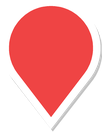
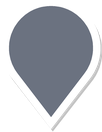
Map pins: empty green pin when available without a count, grey '0' pin for Full listings only with Show Full
Full = every area full (monitored 0 free or unmonitored switched Full). Pins
and the results sheet share one visible-results filter on top of the
server's p_hide_full. Native pin-full PNGs regenerated grey (rj t140u).

diff --git a/src/screens/SearchScreen.tsx b/src/screens/SearchScreen.tsx
@@ -59,7 +59,7 @@ import { useAuthStore } from '../stores/authStore';
 import { supabase } from '../lib/supabase';
 import { loadMyMemberships } from '../lib/operatorAccess';
 import { useBottomInset } from '../hooks/useBottomInset';
-import { listingAvailability, listingPinLabel } from '../lib/areas';
+import { listingAvailability, listingPinLabel, visibleResults } from '../lib/areas';
 
 // Results sheet, three modes (snap points, drag the handle between them):
 // - Minimized: fits its top part (title, summary, one row of filters, distance slider);
@@ -201,10 +201,16 @@ export function SearchScreen() {
     setSearchNonce((n) => n + 1);
   };
 
+  // rj t140u: Full listings are only shown (grey pin / row) while 'Show Full' is on.
+  const shown = useMemo(
+    () => visibleResults(results, filters.showFull),
+    [results, filters.showFull]
+  );
+
   // Convert search results to map pins
   const pins: LocationPin[] = useMemo(
     () =>
-      results.map((result) => ({
+      shown.map((result) => ({
         id: result.id,
         coordinate: {
           latitude: result.latitude,
@@ -212,8 +218,8 @@ export function SearchScreen() {
         },
         availableCount: result.available_count || 0,
         availableSlots: availableSlots(result),
-        // 0067 (areas): the monitored free total, 'Available' with no monitored count,
-        // 'Full' only when every area is full.
+        // The monitored free total; empty green pin when available with no number;
+        // grey '0' when Full (rj t140u).
         pinLabel: listingPinLabel(result.available_count, result.open_status),
         isStale:
           result.stale_after_min && result.availability_updated_at
@@ -223,7 +229,7 @@ export function SearchScreen() {
         isFull: listingAvailability(result.available_count, result.open_status).full,
         title: result.name,
       })),
-    [results]
+    [shown]
   );
 
   const handlePinPress = (locationId: string) => {
@@ -345,11 +351,11 @@ export function SearchScreen() {
   const listData = useMemo(
     () =>
       sortBy === 'eta'
-        ? [...results].sort(
+        ? [...shown].sort(
             (a, b) => (etas[a.id]?.duration_s || 99999) - (etas[b.id]?.duration_s || 99999)
           )
-        : results,
-    [sortBy, results, etas]
+        : shown,
+    [sortBy, shown, etas]
   );
   const renderListItem = useCallback(
     ({ item }: { item: (typeof results)[0] }) => (
@@ -539,7 +545,7 @@ export function SearchScreen() {
                     testID="search-summary"
                     accessibilityLiveRegion="polite"
                   >
-                    {loading ? 'Searching…' : error ? 'Search failed' : searchSummary(results)}
+                    {loading ? 'Searching…' : error ? 'Search failed' : searchSummary(shown)}
                   </Text>
                 </View>
               </View>

diff --git a/src/lib/areas.test.ts b/src/lib/areas.test.ts
@@ -7,6 +7,7 @@ import {
   defaultAreaId,
   listingAvailability,
   listingPinLabel,
+  visibleResults,
   sortAreas,
   vehicleTypesLabel,
 } from './areas.ts';
@@ -84,10 +85,26 @@ test('area error messages', () => {
   assert.equal(areaErrorMessage('weird'), 'weird');
 });
 
-test('map pin labels', () => {
+test('map pin labels (rj t140u)', () => {
   assert.equal(listingPinLabel(12, true), '12');
-  assert.equal(listingPinLabel(null, true), 'Open');
-  assert.equal(listingPinLabel(0, true), 'Open');
+  // available, no monitored count: empty green pin
+  assert.equal(listingPinLabel(null, true), '');
+  assert.equal(listingPinLabel(0, true), '');
+  // full (monitored or unmonitored): grey pin with 0
   assert.equal(listingPinLabel(0, false), '0');
-  assert.equal(listingPinLabel(null, false), 'Full');
+  assert.equal(listingPinLabel(null, false), '0');
+});
+
+test('Full listings only with Show Full', () => {
+  const rows = [
+    { id: 'a', available_count: 3, open_status: true },
+    { id: 'b', available_count: 0, open_status: false },
+    { id: 'c', available_count: null, open_status: false },
+    { id: 'd', available_count: null, open_status: true },
+  ];
+  assert.deepEqual(
+    visibleResults(rows, false).map((r) => r.id),
+    ['a', 'd']
+  );
+  assert.equal(visibleResults(rows, true).length, 4);
 });

diff --git a/src/lib/areas.ts b/src/lib/areas.ts
@@ -133,12 +133,24 @@ export function areaErrorMessage(
   }
 }
 
-/** Short map-pin text for the same rule: the number, 'Open' (no monitored count) or 'Full'. */
+/** Map-pin text (rj t140u): the free number; '0' on a Full listing's grey pin (also
+ *  when no area is monitored); empty (a plain green pin) when available with no number. */
 export function listingPinLabel(
   count: number | null | undefined,
   open: boolean | null | undefined
 ): string {
   const a = listingAvailability(count, open);
-  if (a.full) return a.count == null ? 'Full' : '0';
-  return a.count != null && a.count > 0 ? String(a.count) : 'Open';
+  if (a.full) return '0';
+  return a.count != null && a.count > 0 ? String(a.count) : '';
+}
+
+/** Search results to show on the map and in the results sheet (rj t140u): Full listings
+ *  only while 'Show Full' is on. The server already leaves them out (p_hide_full); this
+ *  also drops them from rows still on screen until the new search comes back. */
+export function visibleResults<
+  T extends { available_count: number | null; open_status: boolean | null },
+>(results: T[], showFull: boolean): T[] {
+  return showFull
+    ? results
+    : results.filter((r) => !listingAvailability(r.available_count, r.open_status).full);
 }

diff --git a/src/components/map/pins.ts b/src/components/map/pins.ts
@@ -11,7 +11,8 @@ export const PIN_CENTER_Y = 16;
 
 export const PIN_COLORS = {
   'pin-open': '#10b981',
-  'pin-full': '#ef4444',
+  // Grey (rj t140u): Full listings, shown only with 'Show Full'.
+  'pin-full': '#6b7280',
   'pin-stale': '#f59e0b',
   'pin-place': '#2563eb',
 } as const;
@@ -28,10 +29,11 @@ export const PIN_LABEL_OFFSET: [number, number] = [
 /** MapLibre expression choosing the pin image from the feature's status flags. */
 export const PIN_IMAGE_EXPRESSION = [
   'case',
-  ['==', ['to-boolean', ['get', 'isStale']], true],
-  'pin-stale',
+  // Full first (rj t140u: a Full listing is always the grey pin, even when stale).
   ['==', ['to-boolean', ['get', 'isFull']], true],
   'pin-full',
+  ['==', ['to-boolean', ['get', 'isStale']], true],
+  'pin-stale',
   'pin-open',
 ];
 

diff --git a/src/components/map/Map.tsx b/src/components/map/Map.tsx
@@ -164,7 +164,8 @@ export const Map = forwardRef<MapHandle, MapProps>(function Map(
           id: pin.id,
           availableCount: pin.availableCount,
           availableSlots: pin.availableSlots ?? Math.max(0, pin.availableCount || 0),
-          pinLabel: pin.pinLabel || String(pin.availableCount),
+          // '' = a plain pin with no number (rj t140u).
+          pinLabel: pin.pinLabel ?? String(pin.availableCount),
           isStale: pin.isStale,
           isFull: pin.isFull,
           title: pin.title,

diff --git a/src/components/map/Map.web.tsx b/src/components/map/Map.web.tsx
@@ -191,7 +191,8 @@ export const Map = forwardRef<MapHandle, MapProps>(function Map(
         id: pin.id,
         availableCount: pin.availableCount,
         availableSlots: pin.availableSlots ?? Math.max(0, pin.availableCount || 0),
-        pinLabel: pin.pinLabel || String(pin.availableCount),
+        // '' = a plain pin with no number (rj t140u).
+        pinLabel: pin.pinLabel ?? String(pin.availableCount),
         isStale: pin.isStale ? 1 : 0,
         isFull: pin.isFull ? 1 : 0,
         title: pin.title,

diff --git a/scripts/generate-map-pins.py b/scripts/generate-map-pins.py
@@ -14,7 +14,7 @@ STROKE = 2.5           # white outline
 CY = 16                # bulb centre y
 COLORS = {
     'pin-open': '#10b981',
-    'pin-full': '#ef4444',
+    'pin-full': '#6b7280',
     'pin-stale': '#f59e0b',
     'pin-place': '#2563eb',
 }

diff --git a/docs/spec.md b/docs/spec.md
@@ -123,6 +123,7 @@ Where To Park is a mobile app for drivers in the Philippines to find parking wit
 
 - Search around current location or a point on the map, no sign-in needed
 - **Map pins**: Each shows available count (or Open/Full), net of held/reserved spaces; past stale threshold use warning style (e.g. amber outline); Full listings greyed
+  - 🟧 **Pin looks (rj t140u)**: a listing with free monitored spots keeps its green pin with the number. A listing that is **available with no number** (no area monitored, or the monitored areas are full but an unmonitored one is Available) shows an **empty green pin** (no number, no 'Open'). A **Full** listing (every area full: monitored with 0 free, or unmonitored switched Full) shows a **grey pin with '0'**, and only while **Show Full** is on; Full wins over the stale (amber) style. The native pin images were regenerated grey.
 - 🟩 **Dense areas cluster**: Cluster bubble shows the **total available slots** of the listings inside it (sum of their counts; Open/Full listings add 0), not the number of listings, via MapLibre GeoJSON clustering with a summed cluster property. Tapping a cluster zooms in until all its pins are visible
 - **Results sheet**: Same results as a list in a bottom sheet over the map, partly open by default (peek ~1/3 screen). Dragging the handle expands to nearly full screen or restores; map stays usable at peek
 - 🟧 **Sheet title**: The results sheet is titled 'Search Result' (was 'Parking Locations')
@@ -144,6 +145,7 @@ Where To Park is a mobile app for drivers in the Philippines to find parking wit
 - 🟦 **Vehicle dropdown**: The vehicle chip ('Vehicle: Car ▾') opens a list with 'All' plus each vehicle type (Car, SUV, Van, Motorcycle, Truck). It starts at the signed-in user's default vehicle's type, and at 'All' for guests or users without a default vehicle (re-applied on sign-in/out). 'All' means no vehicle filter. The chosen type is passed to search as the vehicle type (today that picks the rate used for the starting price)
 - 🟧 **Filter pill text**: The Vehicle and Rate type pills no longer start with 'Vehicle:' / 'Rate:'. They show just the choice: 'All vehicles ▾' / 'All rate types ▾' when unfiltered (the 'All' option in each menu is named the same), or the picked value, e.g. 'Car ▾', 'Monthly ▾'. The menus keep their 'Vehicle' / 'Rate type' titles. Filtering is unchanged
 - 🟦 **Full listings hidden by default**: Full listings (count 0, or Open/Full set to Full) are left out of results, pins and the summary by default. A 'Show Full' chip (off by default) includes them when turned on; it replaces the old 'Hide Full' chip. Note: 'hide full' keeps only count listings with spaces left and Open/Full listings set to Open, so Slots-mode listings (Phase 2) would also be hidden while Show Full is off
+  - 🟧 **Same rule for pins and the results sheet (rj t140u)**: with Show Full off the server leaves Full listings out (`search_nearby(p_hide_full)`, Full = every area full, 0067), so the map pins, the result rows and the summary ('6 listings · 616 spots available') all skip them; the app also drops them from rows still on screen until the new search comes back. With Show Full on, Full listings appear in both, as grey '0' pins and rows with the red Full badge, and the summary counts them as listings (0 spots each).
 - 🟩 **Distance filter**: Slider from 0.5 km up to a max that follows the searched area: the distance from the search centre to the farthest corner of the visible map, rounded up to the next step (0.5 km steps below 10 km, then 1 km), never below 0.5 km and capped at 50 km. The max is recomputed every time a search runs, including 'Search this area'. 🟩 After every **new** search (the first search when the map opens, and 'Search this area', including after picking a place in the search box) the distance is set to the new max, so the whole visible map is searched; the driver can then slide it down. Changing filters or sort re-runs the same search and keeps the driver's value (lowered to the max if needed); only a new search resets it. Before the map reports its first viewport, the max is estimated from the opening zoom and the screen size. (3 km remains the starting value before the first search computes its max)
 - 🟩 **Opening zoom**: The search map opens at zoom 13.25, just low enough that the farthest visible corner is at least 3 km from the centre on a typical phone (map area about 412×800 dp: ≈3.5 km), so the 3 km default distance is selectable at launch. On small phones (about 360×580 dp, ≈2.6 km) the max still rounds up to 3 km
 - 🟩 **Current location**: The map shows a blue puck (dot with white ring and a soft halo) at the driver's current location, updated as they move (every ~10 m / 5 s). Location permission is asked once when the map first opens; if it is denied, a short dark message appears above the button for about 4 seconds ('Location permission denied. Tap ◎ to allow it…', or 'Turn it on in Settings' when Android won't ask again, or 'Can't get your location right now' when location is off) and the app keeps working around Baguio. A round ◎ button at the bottom-right of the map recenters the map on the driver (zoom 15, kept clear of the sheet); if permission isn't granted it asks again (or shows the message), and if the first fix isn't in yet it centers as soon as it arrives. Recentering doesn't search by itself: 'Search this area' appears so the driver can search there. The puck is drawn by our map abstraction (`userLocation` prop: a GeoJSON circle layer on Android MapLibre, a DOM marker on web), so another map provider only has to draw the same prop
